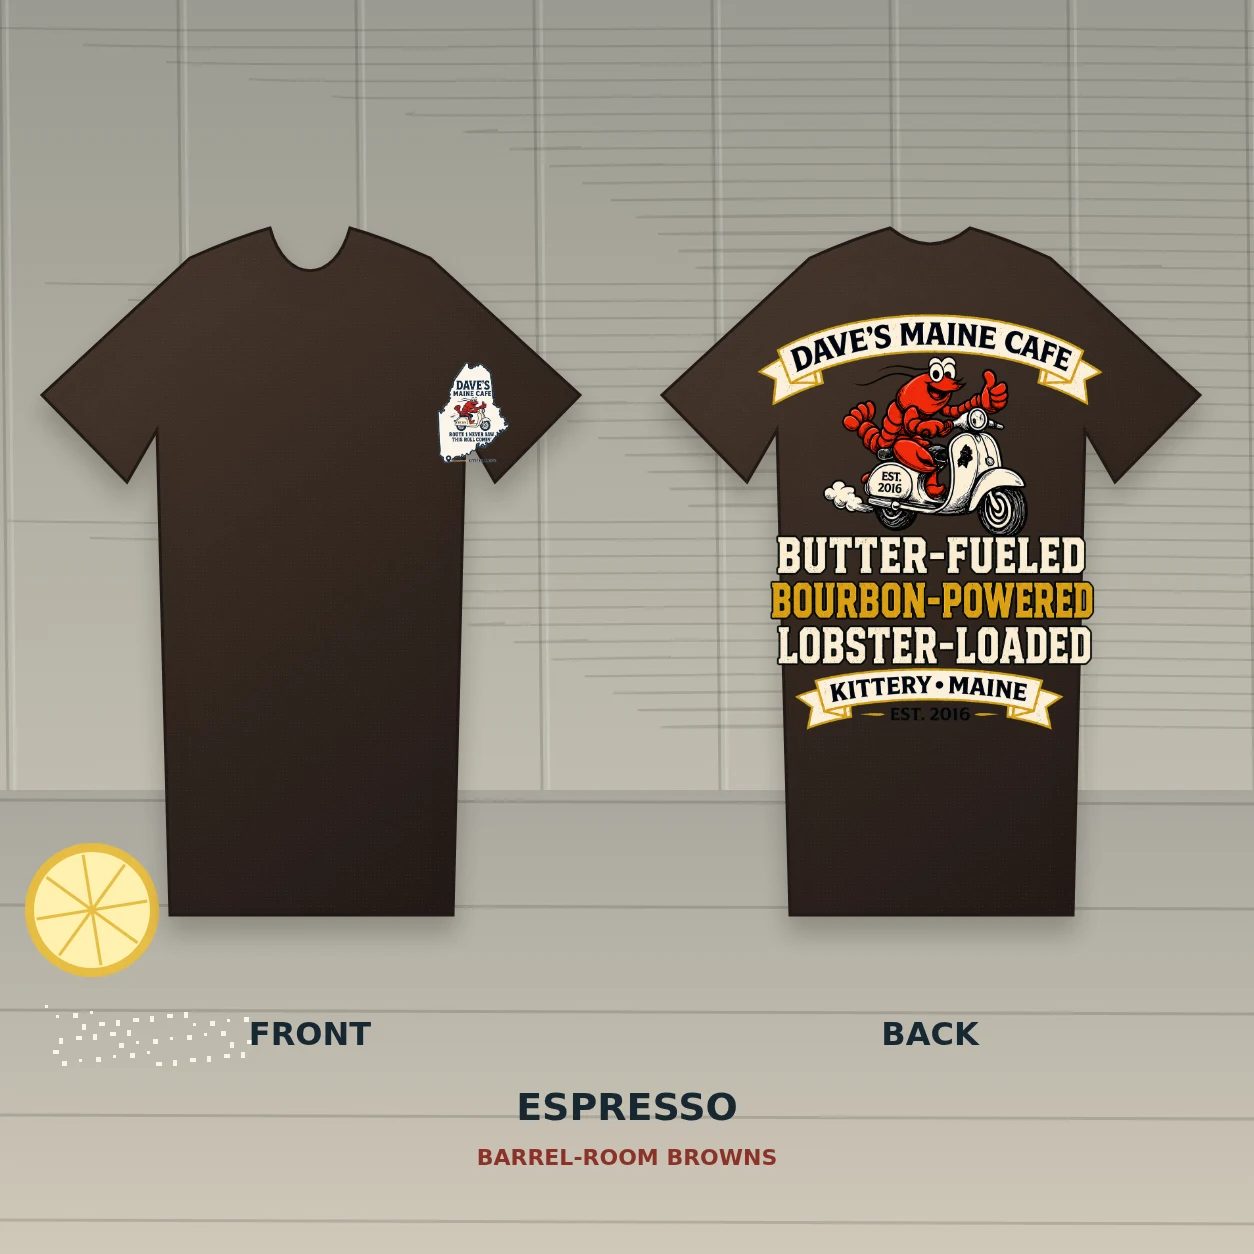
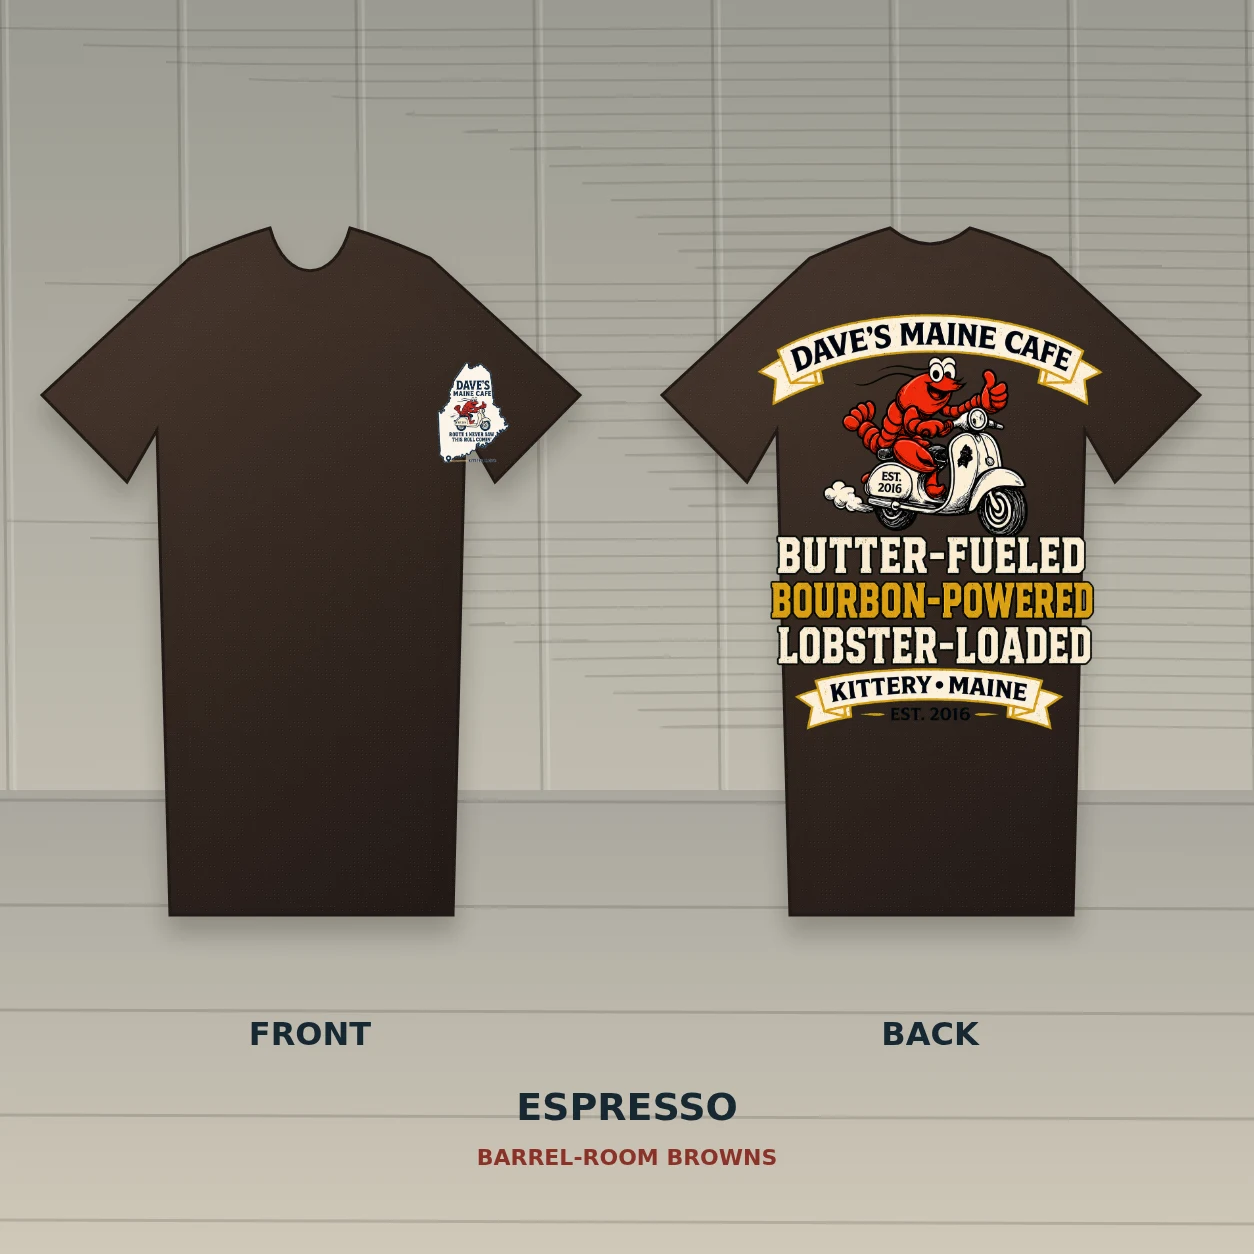
Show front and back shirt proofs without props

Changed region(s): [[0.0, 0.6531, 0.1244, 0.7775]]

diff --git a/staging/merch/index.html b/staging/merch/index.html
@@ -34,9 +34,9 @@
       <article class="product">
         <div class="swipe-tip"><b>Swipe sideways for colors.</b> Yes, with your finger. We believe in you. →</div>
         <div class="photo-grid" aria-label="I Got Shucked shirt color comparisons">
-          <img src="/assets/merch/folded-shirt-product-photos/dmc-shucked-sandstone-folded-v2.webp" alt="Khaki I Got Shucked at Dave's T-shirt with centered back artwork">
-          <img src="/assets/merch/folded-shirt-product-photos/dmc-shucked-ivory-folded-v2.webp" alt="Ivory I Got Shucked at Dave's T-shirt with centered back artwork">
-          <img src="/assets/merch/folded-shirt-product-photos/dmc-shucked-khaki-folded-v2.webp" alt="Bay I Got Shucked at Dave's T-shirt with centered back artwork">
+          <img src="/assets/merch/drop-one-mockups/dmc-shucked-sandstone-front-back.webp" alt="Khaki I Got Shucked at Dave's T-shirt, front and back">
+          <img src="/assets/merch/drop-one-mockups/dmc-shucked-ivory-front-back.webp" alt="Ivory I Got Shucked at Dave's T-shirt, front and back">
+          <img src="/assets/merch/drop-one-mockups/dmc-shucked-khaki-front-back.webp" alt="Bay I Got Shucked at Dave's T-shirt, front and back">
         </div>
         <div class="info">
           <div class="head"><div><div class="number">Shirt No. 1</div><h2>I Got Shucked at Dave's</h2><p class="description">Comfort Colors heavyweight tee · front and back print</p></div><div class="price">$30</div></div>
@@ -54,9 +54,9 @@
       <article class="product">
         <div class="swipe-tip"><b>Swipe sideways for colors.</b> Yes, with your finger. We believe in you. →</div>
         <div class="photo-grid" aria-label="Score shirt color comparisons">
-          <img src="/assets/merch/folded-shirt-product-photos/dmc-score-blue-jean-folded-v2.webp" alt="Blue Jean Does Anyone Know the Score T-shirt with centered back artwork">
-          <img src="/assets/merch/folded-shirt-product-photos/dmc-score-chambray-folded-v2.webp" alt="Chambray Does Anyone Know the Score T-shirt with centered back artwork">
-          <img src="/assets/merch/folded-shirt-product-photos/dmc-score-flo-blue-folded-v2.webp" alt="Flo Blue Does Anyone Know the Score T-shirt with centered back artwork">
+          <img src="/assets/merch/drop-one-mockups/dmc-score-blue-jean-front-back.webp" alt="Blue Jean Does Anyone Know the Score T-shirt, front and back">
+          <img src="/assets/merch/drop-one-mockups/dmc-score-chambray-front-back.webp" alt="Chambray Does Anyone Know the Score T-shirt, front and back">
+          <img src="/assets/merch/drop-one-mockups/dmc-score-flo-blue-front-back.webp" alt="Flo Blue Does Anyone Know the Score T-shirt, front and back">
         </div>
         <div class="info">
           <div class="head"><div><div class="number">Shirt No. 2</div><h2>Does Anyone Know the Score?</h2><p class="description">Comfort Colors heavyweight tee · front and back print</p></div><div class="price">$30</div></div>
@@ -74,9 +74,9 @@
       <article class="product">
         <div class="swipe-tip"><b>Swipe sideways for colors.</b> Yes, with your finger. We believe in you. →</div>
         <div class="photo-grid" aria-label="Butter-Fueled Bourbon-Powered shirt color comparisons">
-          <img src="/assets/merch/folded-shirt-product-photos/dmc-bourbon-pepper-folded-v2.webp" alt="Pepper Butter-Fueled Bourbon-Powered T-shirt with centered back artwork">
-          <img src="/assets/merch/folded-shirt-product-photos/dmc-bourbon-melon-folded-v2.webp" alt="Terracotta Butter-Fueled Bourbon-Powered T-shirt with centered back artwork">
-          <img src="/assets/merch/folded-shirt-product-photos/dmc-bourbon-espresso-folded-v2.webp" alt="Espresso Butter-Fueled Bourbon-Powered T-shirt with centered back artwork">
+          <img src="/assets/merch/drop-one-mockups/dmc-bourbon-pepper-front-back.webp" alt="Pepper Butter-Fueled Bourbon-Powered T-shirt, front and back">
+          <img src="/assets/merch/drop-one-mockups/dmc-bourbon-melon-front-back.webp" alt="Terracotta Butter-Fueled Bourbon-Powered T-shirt, front and back">
+          <img src="/assets/merch/drop-one-mockups/dmc-bourbon-espresso-front-back.webp" alt="Espresso Butter-Fueled Bourbon-Powered T-shirt, front and back">
         </div>
         <div class="info">
           <div class="head"><div><div class="number">Shirt No. 3</div><h2>Butter-Fueled. Bourbon-Powered.</h2><p class="description">Comfort Colors heavyweight tee · front and back print</p></div><div class="price">$30</div></div>
